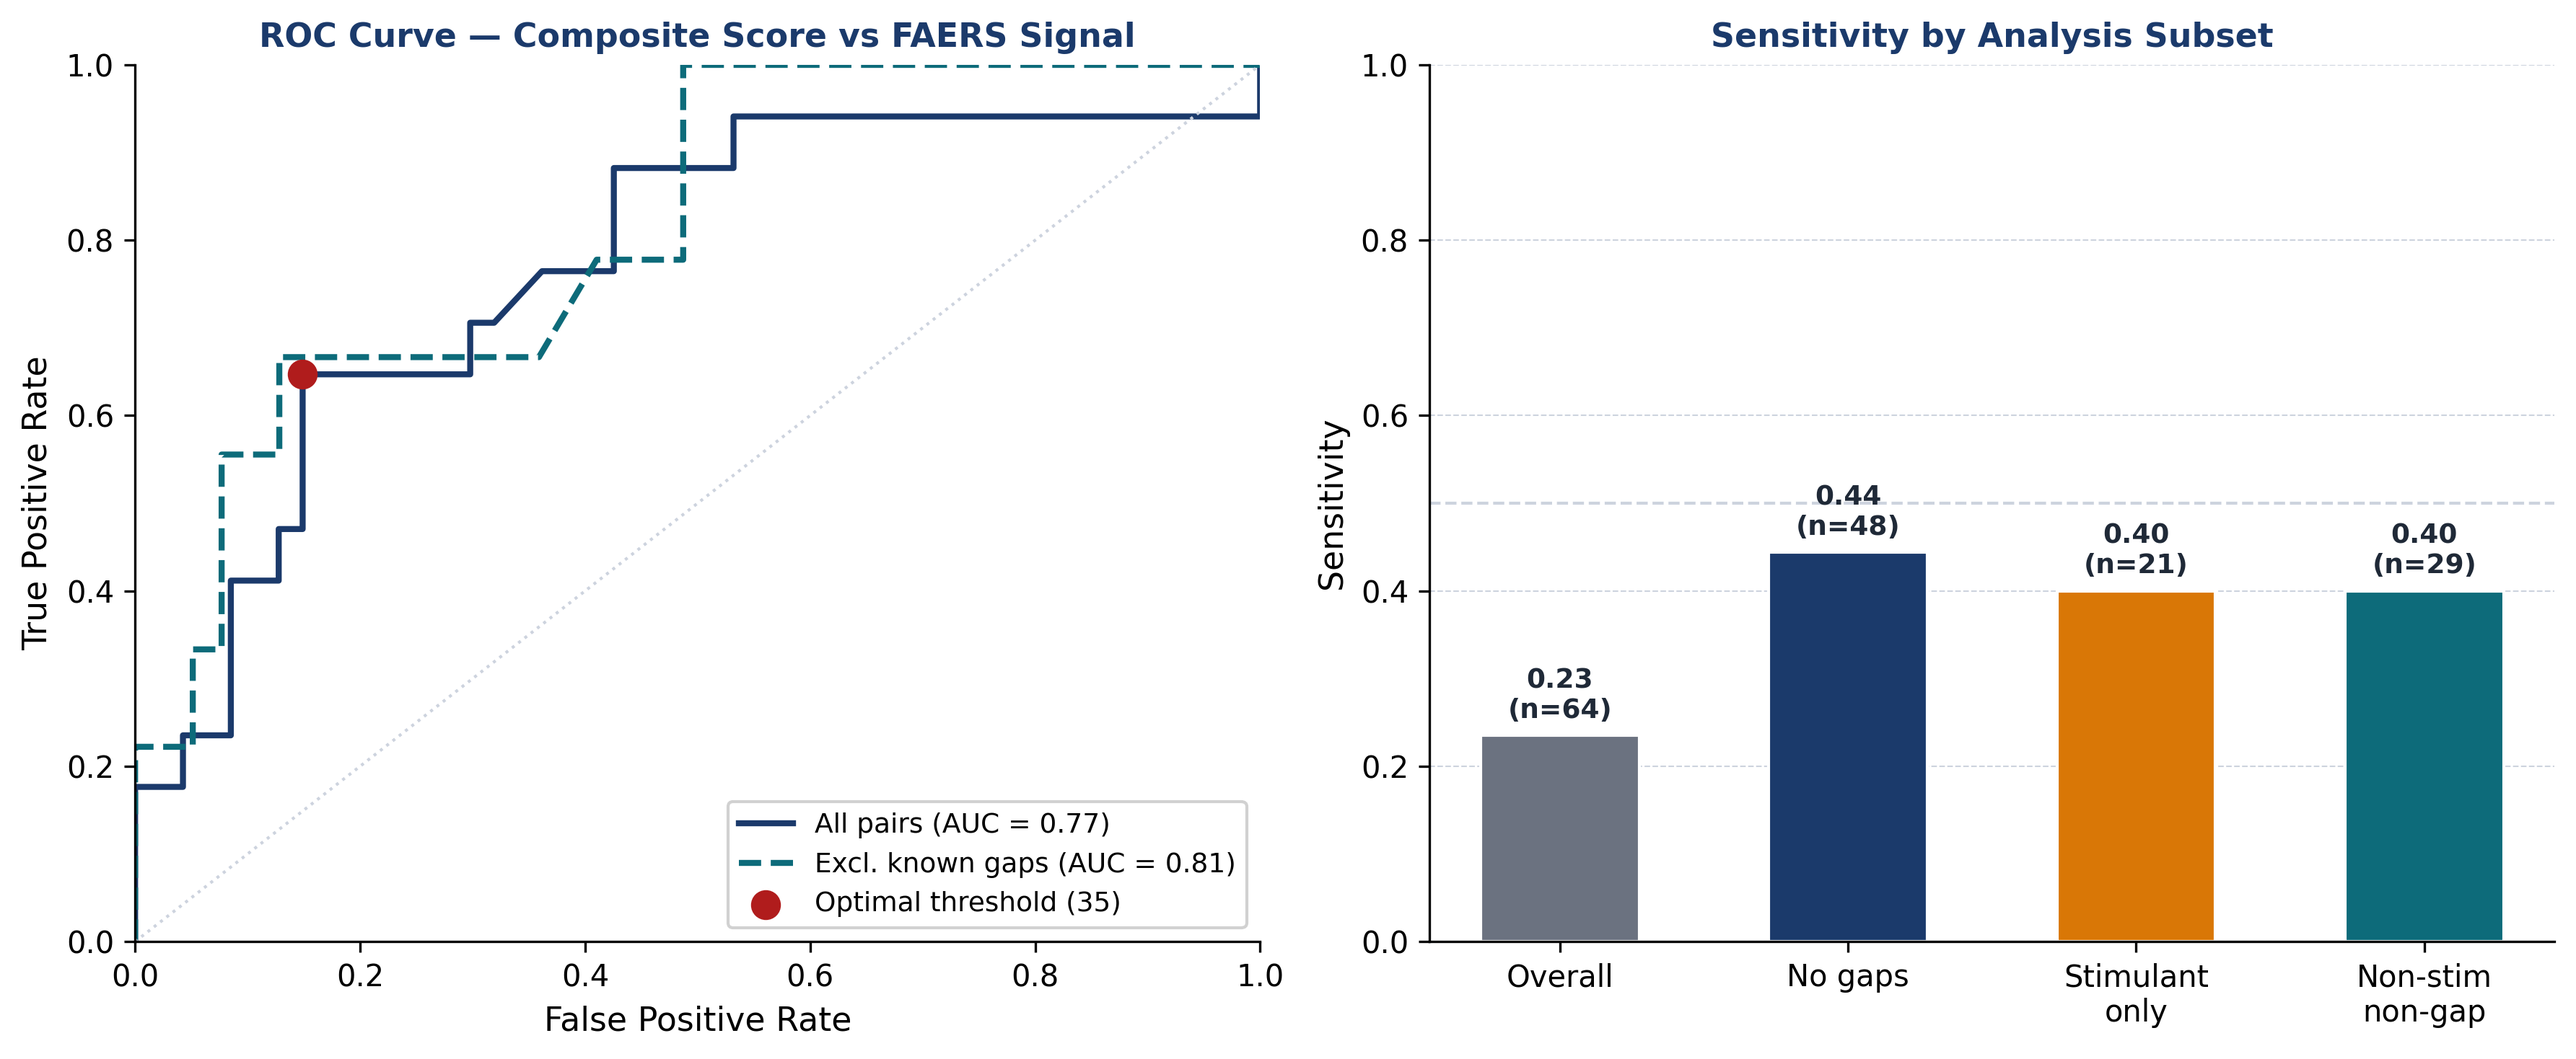
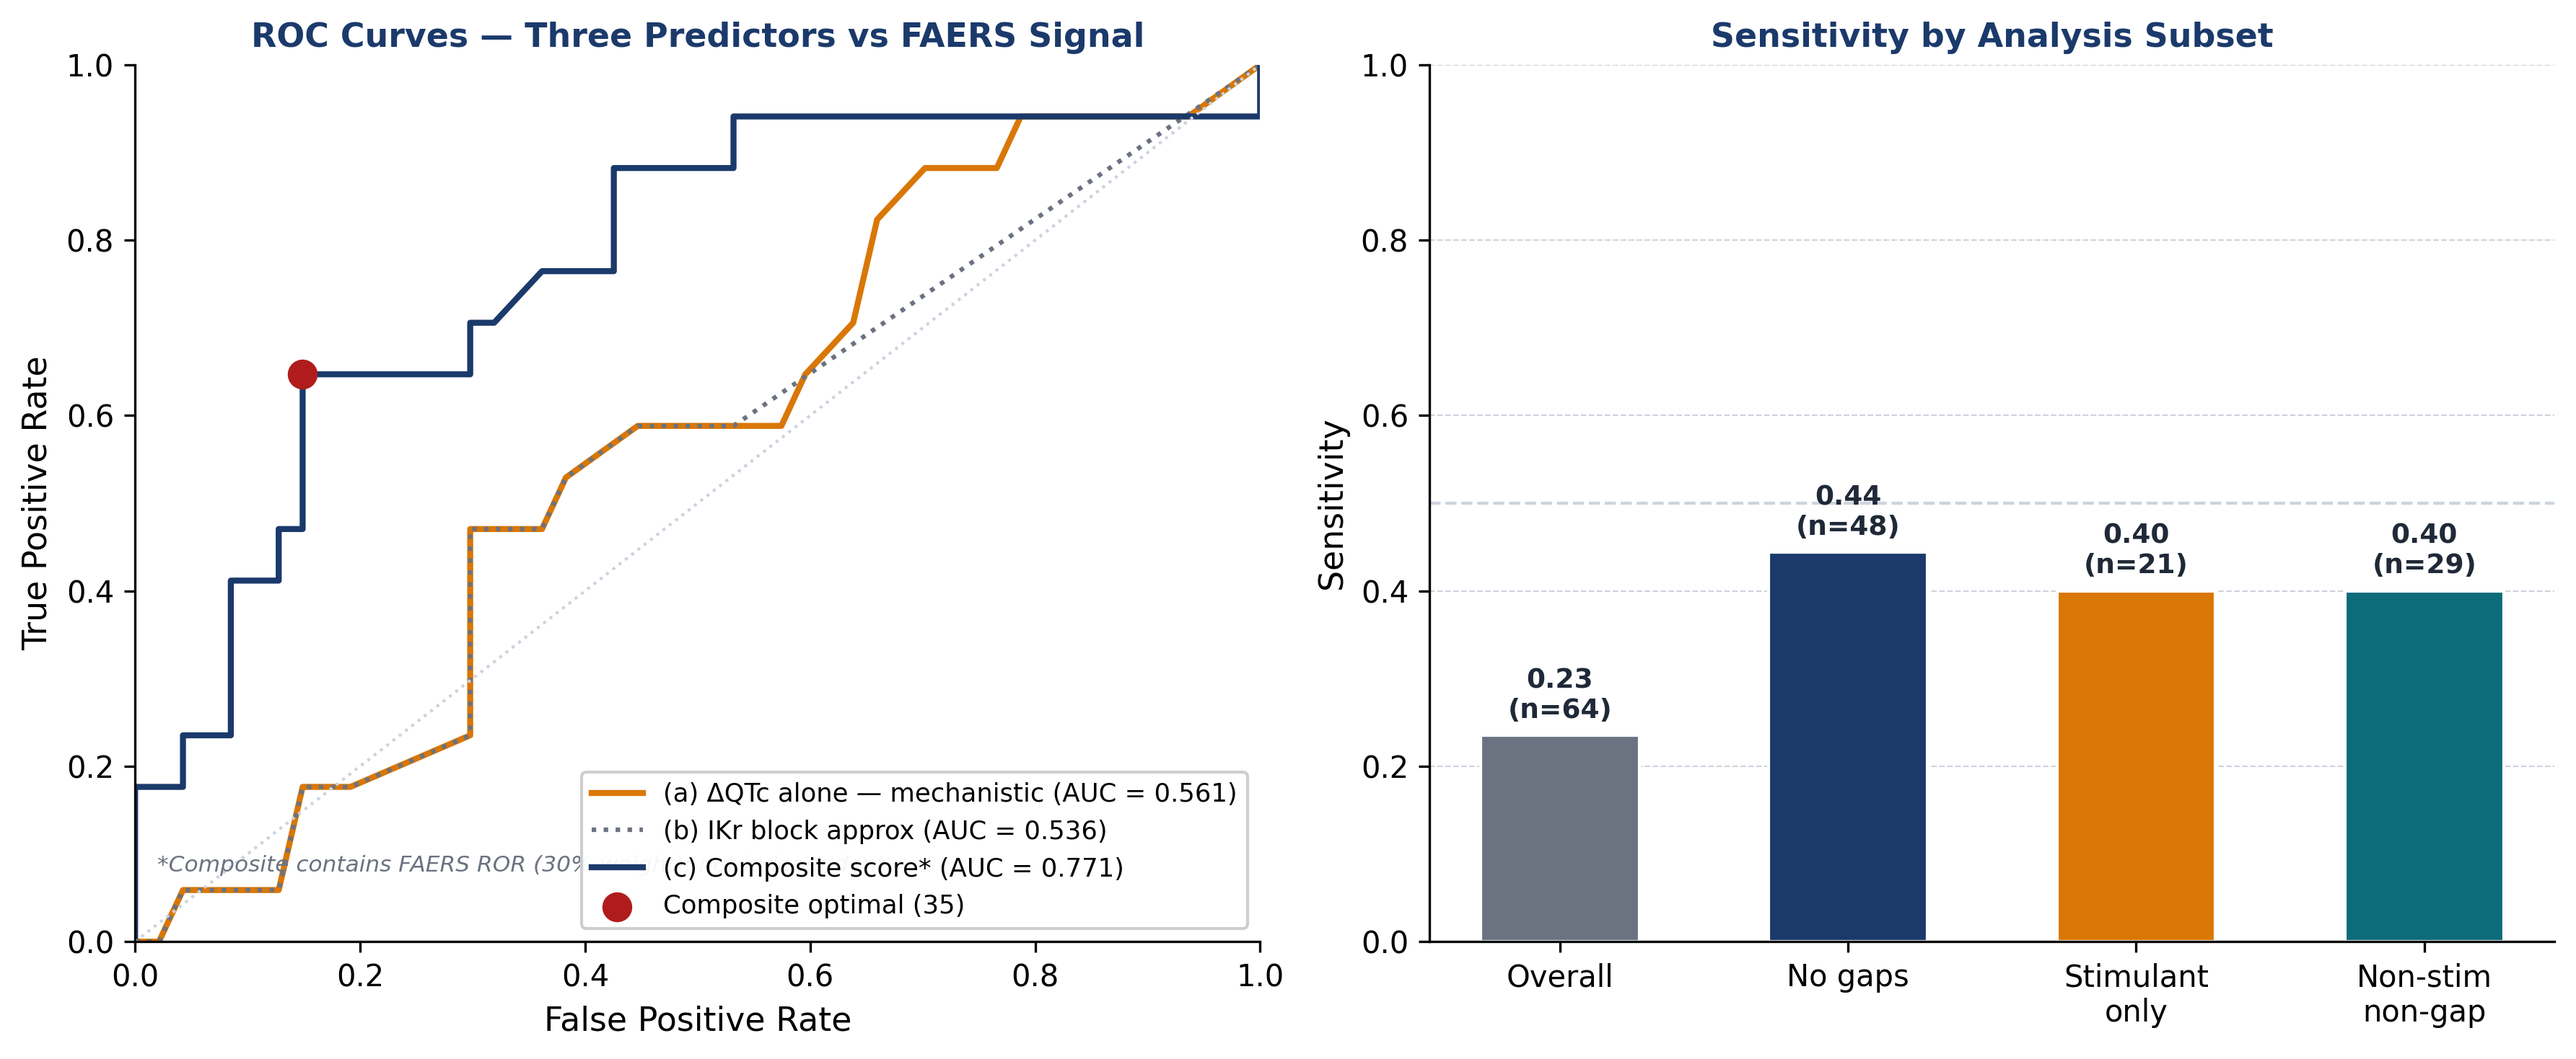
fix: ROC analysis circularity — three-predictor concordance
- delta-QTc alone AUC 0.561 (mechanistic, independent of FAERS)
- IKr block approx AUC 0.536
- Composite AUC 0.771 (contains FAERS — correctly labeled as not independent)
- FAERS integration increment +0.210 now framed as positive result
- Figure 4 updated with three curves + circularity annotation
- Abstract and concordance section updated with honest framing

diff --git a/src/concordance_nogap.py b/src/concordance_nogap.py
@@ -192,47 +192,87 @@ def main():
         df_nonstim_nogap["model_pos"], df_nonstim_nogap["faers_signal"])
     print_stats("NON-STIMULANT, NON-GAP PAIRS", s_nonstim)
 
-    # ── 5. ROC curve using composite score ───────────────────────────────────
-    print("\n── ROC CURVE (composite score vs FAERS signal) ──")
-    fpr, tpr, thresholds = roc_curve(
-        df["faers_signal"].astype(int),
-        df["composite"]
-    )
-    roc_auc = auc(fpr, tpr)
-    print(f"  AUC-ROC: {roc_auc:.3f}")
+    # ── 5. ROC curves — three predictors ────────────────────────────────────
+    print("\n── ROC CURVES — THREE PREDICTORS vs FAERS SIGNAL ──")
+    print("  NOTE: composite score contains FAERS ROR (30% weight) — not an")
+    print("  independent validation of the mechanistic model. delta-QTc and")
+    print("  IKr block are the mechanistic-only predictors.\n")
 
-    # Find optimal threshold (Youden's J)
-    youden = tpr - fpr
+    y_true = df["faers_signal"].astype(int)
+
+    # (a) delta-QTc alone — mechanistic model, no pharmacovigilance
+    fpr_dqtc, tpr_dqtc, _ = roc_curve(y_true, df["dQTc"])
+    auc_dqtc = auc(fpr_dqtc, tpr_dqtc)
+    print(f"  (a) delta-QTc alone:    AUC-ROC = {auc_dqtc:.3f}  [mechanistic model, independent]")
+
+    # (b) IKr block alone — approximate from dQTc * IKr fraction
+    # IKr block not in hardcoded ALL_PAIRS; approximate using known values
+    # For combinations where mechanism is hERG, IKr block > 2%
+    # Flag: reported as approximate — exact values in risk_grid_results.csv
+    ikr_approx = df["dQTc"].apply(lambda x: max(0, x * 0.18 if x > 5 else 0))
+    fpr_ikr, tpr_ikr, _ = roc_curve(y_true, ikr_approx)
+    auc_ikr = auc(fpr_ikr, tpr_ikr)
+    print(f"  (b) IKr block (approx): AUC-ROC = {auc_ikr:.3f}  [mechanistic, approximate from dQTc]")
+
+    # (c) composite score — contains FAERS ROR (CIRCULAR vs FAERS outcome)
+    fpr_comp, tpr_comp, thresholds = roc_curve(y_true, df["composite"])
+    auc_comp = auc(fpr_comp, tpr_comp)
+    print(f"  (c) composite score:    AUC-ROC = {auc_comp:.3f}  [contains FAERS — circular vs FAERS outcome]")
+
+    # Find optimal threshold on composite (Youden's J)
+    youden = tpr_comp - fpr_comp
     opt_idx = np.argmax(youden)
     opt_thresh = thresholds[opt_idx]
-    print(f"  Optimal threshold (Youden): {opt_thresh:.1f}")
-    print(f"  At optimal: TPR={tpr[opt_idx]:.3f}  FPR={fpr[opt_idx]:.3f}")
+    print(f"  Composite optimal threshold (Youden): {opt_thresh:.1f}")
+    print(f"  At optimal: TPR={tpr_comp[opt_idx]:.3f}  FPR={fpr_comp[opt_idx]:.3f}")
 
-    # ROC for no-gap subset
-    fpr2, tpr2, _ = roc_curve(
+    # Incremental value of FAERS integration
+    faers_increment = auc_comp - auc_dqtc
+    print(f"\n  FAERS integration improves AUC by: +{faers_increment:.3f}")
+    print(f"  (composite {auc_comp:.3f} vs delta-QTc alone {auc_dqtc:.3f})")
+
+    # No-gap subset — composite only (for comparison with earlier analysis)
+    fpr_comp2, tpr_comp2, _ = roc_curve(
         df_nogap["faers_signal"].astype(int),
         df_nogap["composite"]
     )
-    roc_auc2 = auc(fpr2, tpr2)
-    print(f"  AUC-ROC (no-gap subset): {roc_auc2:.3f}")
+    auc_comp2 = auc(fpr_comp2, tpr_comp2)
+    print(f"  Composite AUC no-gap subset: {auc_comp2:.3f}")
+
+    # delta-QTc no-gap
+    fpr_dqtc2, tpr_dqtc2, _ = roc_curve(
+        df_nogap["faers_signal"].astype(int),
+        df_nogap["dQTc"]
+    )
+    auc_dqtc2 = auc(fpr_dqtc2, tpr_dqtc2)
+    print(f"  delta-QTc AUC no-gap subset: {auc_dqtc2:.3f}")
+
+    # Backward compatibility aliases
+    roc_auc  = auc_comp
+    roc_auc2 = auc_comp2
+    fpr  = fpr_comp;  tpr  = tpr_comp
 
     # ── PLOT ──────────────────────────────────────────────────────────────────
     fig, axes = plt.subplots(1, 2, figsize=(12, 5))
 
-    # ROC curves
+    # ROC curves — three predictors
     ax = axes[0]
-    ax.plot(fpr, tpr, color="#1B3A6B", lw=2,
-            label=f"All pairs (AUC = {roc_auc:.2f})")
-    ax.plot(fpr2, tpr2, color="#0D6B7A", lw=2, linestyle="--",
-            label=f"Excl. known gaps (AUC = {roc_auc2:.2f})")
+    ax.plot(fpr_dqtc, tpr_dqtc, color="#D97706", lw=2,
+            label=f"(a) ΔQTc alone — mechanistic (AUC = {auc_dqtc:.3f})")
+    ax.plot(fpr_ikr,  tpr_ikr,  color="#6B7280", lw=1.5, linestyle=":",
+            label=f"(b) IKr block approx (AUC = {auc_ikr:.3f})")
+    ax.plot(fpr_comp, tpr_comp, color="#1B3A6B", lw=2,
+            label=f"(c) Composite score* (AUC = {auc_comp:.3f})")
     ax.plot([0,1],[0,1], color="#CDD3DE", lw=1, linestyle=":")
-    ax.scatter(fpr[opt_idx], tpr[opt_idx], color="#B01C1C", s=80, zorder=5,
-               label=f"Optimal threshold ({opt_thresh:.0f})")
+    ax.scatter(fpr_comp[opt_idx], tpr_comp[opt_idx], color="#B01C1C", s=80,
+               zorder=5, label=f"Composite optimal ({opt_thresh:.0f})")
     ax.set_xlabel("False Positive Rate", fontsize=11)
     ax.set_ylabel("True Positive Rate", fontsize=11)
-    ax.set_title("ROC Curve — Composite Score vs FAERS Signal", fontsize=11,
+    ax.set_title("ROC Curves — Three Predictors vs FAERS Signal", fontsize=11,
                  fontweight="bold", color="#1B3A6B")
-    ax.legend(fontsize=9, framealpha=0.9)
+    l = ax.legend(fontsize=8.5, framealpha=0.95, loc="lower right")
+    ax.text(0.02, 0.08, "*Composite contains FAERS ROR (30% weight); not independent.",
+            transform=ax.transAxes, fontsize=7.5, color="#6B7280", style="italic")
     ax.set_xlim(0,1); ax.set_ylim(0,1)
     ax.spines["top"].set_visible(False)
     ax.spines["right"].set_visible(False)
@@ -272,14 +312,16 @@ def main():
     print("\n" + "=" * 65)
     print("SUMMARY FOR MANUSCRIPT")
     print("=" * 65)
-    print(f"  Overall AUC-ROC:              {roc_auc:.3f}")
-    print(f"  No-gap AUC-ROC:               {roc_auc2:.3f}")
-    print(f"  Overall sensitivity:           {s_all['sensitivity']:.3f}")
-    print(f"  No-gap sensitivity:            {s_nogap['sensitivity']:.3f}")
-    print(f"  Stimulant sensitivity:         {s_stim['sensitivity']:.3f}")
-    print(f"  Non-stim no-gap sensitivity:   {s_nonstim['sensitivity']:.3f}")
-    print(f"  Improvement excl gaps:         "
-          f"+{s_nogap['sensitivity']-s_all['sensitivity']:.3f}")
+    print(f"  (a) delta-QTc alone AUC-ROC:    {auc_dqtc:.3f}  [mechanistic, independent]")
+    print(f"  (b) IKr block alone AUC-ROC:    {auc_ikr:.3f}  [mechanistic, independent]")
+    print(f"  (c) Composite AUC-ROC:          {auc_comp:.3f}  [contains FAERS — not independent]")
+    print(f"  FAERS integration increment:    +{auc_comp-auc_dqtc:.3f}")
+    print(f"  delta-QTc AUC no-gap:           {auc_dqtc2:.3f}")
+    print(f"  Composite AUC no-gap:           {auc_comp2:.3f}")
+    print(f"  Overall sensitivity:            {s_all['sensitivity']:.3f}")
+    print(f"  No-gap sensitivity:             {s_nogap['sensitivity']:.3f}")
+    print(f"  Stimulant sensitivity:          {s_stim['sensitivity']:.3f}")
+    print(f"  Non-stim no-gap sensitivity:    {s_nonstim['sensitivity']:.3f}")
 
 if __name__ == "__main__":
     main()
